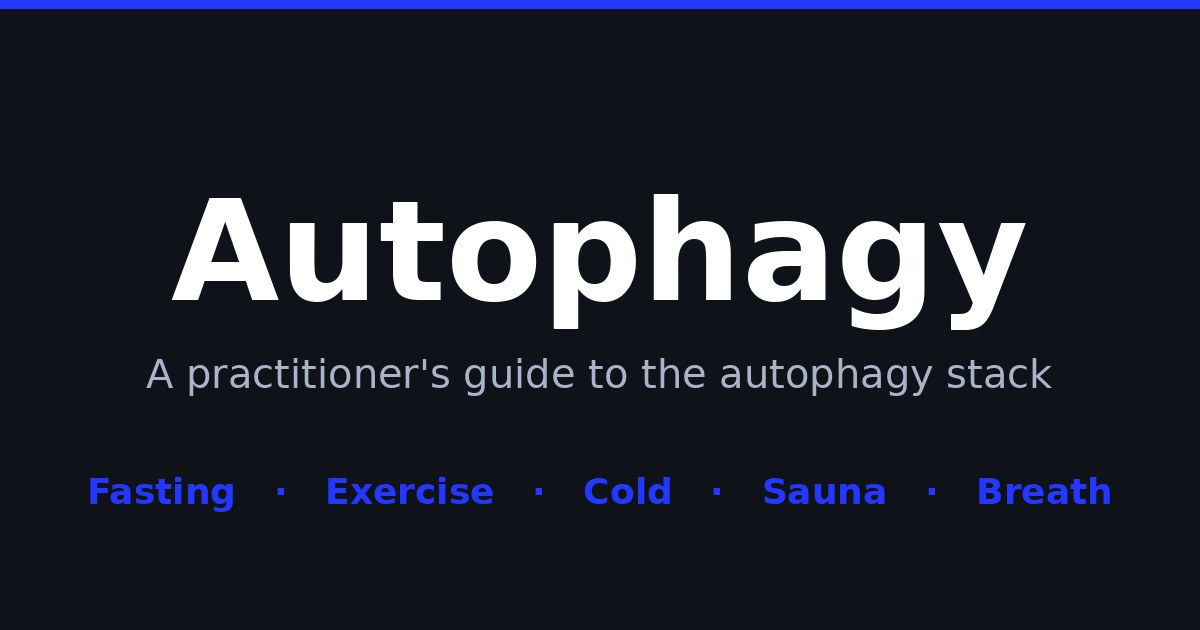
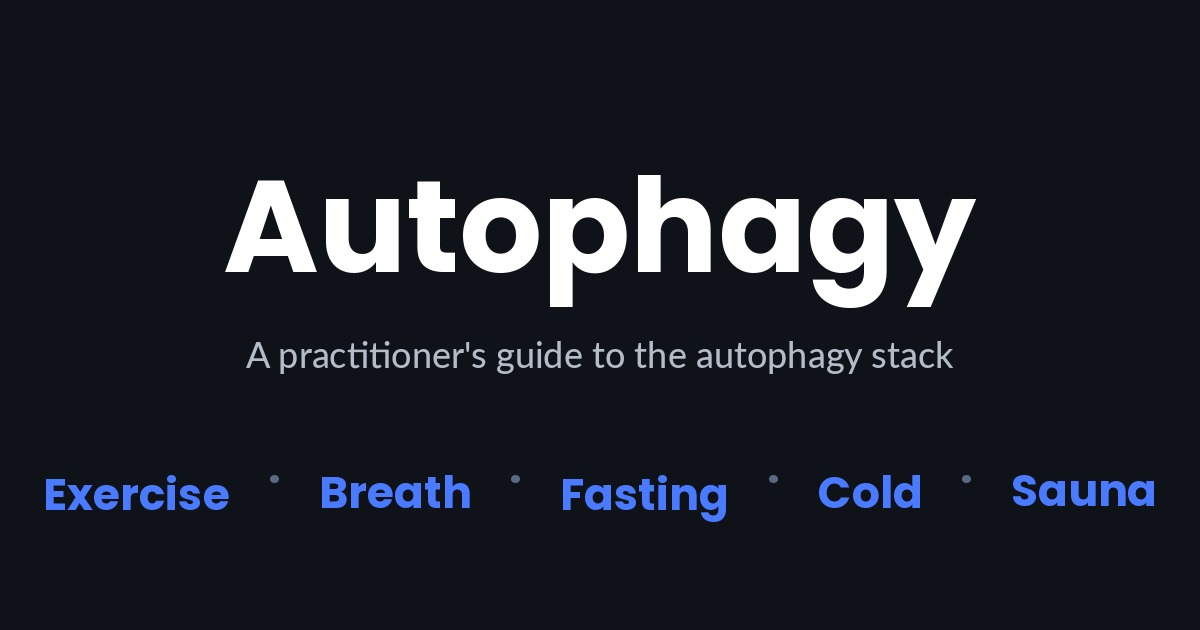
SEO + OG card: rewrite home page meta, regenerate Twitter/Open Graph image
Before: title was 'Autophagy' (1 word), meta description had no 'autophagy', H1 had no 'autophagy'. Failed basic on-page SEO. OG/Twitter card had modality strip in wrong order (Fasting · Exercise · Cold · Sauna · Breath).

Changes:
- src/consts.ts: rewrite SITE_DESCRIPTION to lead with 'Autophagy is your cells' self-cleaning cycle...' (150 chars, in the 140-160 sweet spot, contains keyword)
- src/pages/index.astro: introduce PAGE_TITLE = 'Autophagy: Five Practices to Trigger It | Free iPhone App' (57 chars, contains primary keyword, secondary 'free iPhone app' modifier)
- Home page H1 from 'The five practices that clean your cells.' to 'The five practices that trigger autophagy.' (keyword in H1)
- Hero supporting paragraph now opens with 'Autophagy is your cells' self-cleaning cycle...' so the keyword appears in body copy
- Section H2 from 'The five practices.' to 'The five autophagy practices.' for keyword reinforcement
- src/assets/blog-placeholder-1.jpg: regenerate OG/Twitter card with modality strip in correct app order: Exercise · Breath · Fasting · Cold · Sauna

Site brand title constant SITE_TITLE='Autophagy' kept for header/nav use.

diff --git a/src/consts.ts b/src/consts.ts
@@ -1,3 +1,3 @@
 // Place any shared constants for your site here.
 export const SITE_TITLE = 'Autophagy';
-export const SITE_DESCRIPTION = "A practitioner's guide to fasting, exercise, cold immersion, sauna, and hypoxic breathing for athletes who care about living well.";
+export const SITE_DESCRIPTION = "Autophagy is your cells' self-cleaning cycle. Five practices reliably trigger it: exercise, reset breathing, fasting, cold and sauna. Free iPhone app.";
